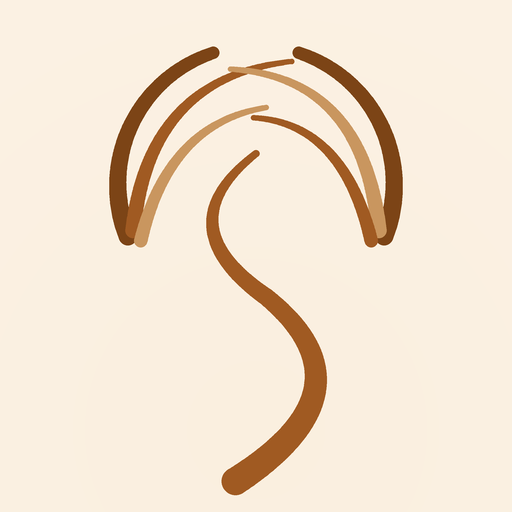
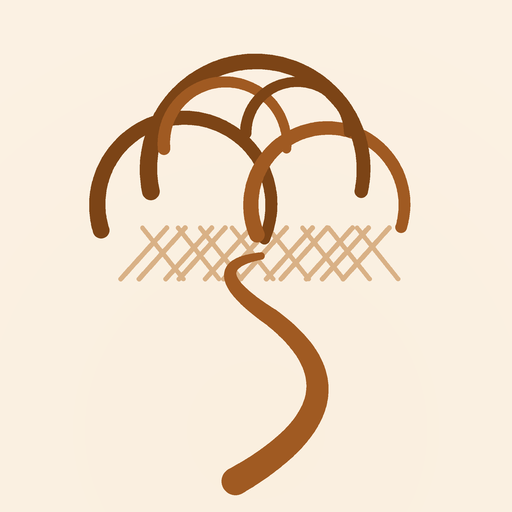
deploy 20260612-0329

diff --git a/index.html b/index.html
@@ -16,8 +16,8 @@
 @font-face{font-family:"Source Serif 4";src:url("./fonts/source-serif-italic-var.woff2") format("woff2");font-style:italic;font-weight:200 900;font-display:swap}
 @font-face{font-family:"Archivo";src:url("./fonts/archivo-var.woff2") format("woff2");font-weight:100 900;font-display:swap}
 </style>
-  <script type="module" crossorigin src="./assets/index-BJf_9Hmf.js"></script>
-  <link rel="stylesheet" crossorigin href="./assets/style-Bjl6vXi2.css">
+  <script type="module" crossorigin src="./assets/index-DHs-lZY4.js"></script>
+  <link rel="stylesheet" crossorigin href="./assets/style-F3nhoCW-.css">
 </head>
 <body>
 <div id="root"></div>

diff --git a/sw.js b/sw.js
@@ -2,8 +2,8 @@
    Hashed assets + fonts: cache-first (immutable). index.html, manifest, trip-data.enc:
    network-first with a short timeout, falling back to cache, so a weak signal never
    blocks boot. Cache name is stamped per deploy; old caches die on activate.
-   20260612031012 is substituted by scripts/deploy.sh. */
-const CACHE = "excurse-20260612031012";
+   20260612032937 is substituted by scripts/deploy.sh. */
+const CACHE = "excurse-20260612032937";
 const NET_TIMEOUT = 3500;
 
 self.addEventListener("install", () => self.skipWaiting());

diff --git a/assets/style-F3nhoCW-.css b/assets/style-F3nhoCW-.css
@@ -1,0 +1,2 @@
+*{-webkit-tap-highlight-color:transparent}:root{--paper:#faf7f2;--paper-deep:#f1ece2;--ink:#1c1915;--ink-soft:#575046;--ink-faint:#8b8276;--line:#dcd5c9;--trip-accent:#2f6b8a;--on-accent:#fff;--call-ahead:#9a6a1b;--breaking:#ae352c;--confirmed:#2f6b4d;--font-ui:"Inter",system-ui,-apple-system,sans-serif;--font-voice:"Source Serif 4",Georgia,serif;--font-display:"Archivo",var(--font-ui);--fs-caption:.75rem;--fs-meta:.8125rem;--fs-body:.9375rem;--fs-emph:1.0625rem;--fs-title:1.25rem;--fs-day:1.5rem;--fs-display:2rem;--fs-clock:2.75rem;--lh-tight:1.2;--lh-body:1.45;--s1:4px;--s2:8px;--s3:12px;--s4:16px;--s5:24px;--s6:40px;--s7:64px;--tap:48px;--r-card:12px;--r-sheet:20px;--r-chip:999px;--shadow-sheet:0 -8px 32px #1c191529;--t-micro:.14s;--t-state:.24s;--t-trans:.42s;--t-set:.7s;--ease-out:cubic-bezier(.2,.8,.2,1);--ease-cam:cubic-bezier(.45,0,.15,1);--z-thread:10;--z-pocket:50;--z-overlay:60;--z-veil:100;--bg:var(--paper);--fg:var(--ink)}[data-mode=dream]{--bg:#161826;--fg:#eceaf2;--ember:#e27840}[data-mode=shape]{--bg:var(--paper);--fg:var(--ink)}[data-mode=field]{--bg:#fff;--fg:#111009}[data-mode=field][data-theme=dark]{--bg:#121110;--fg:#f4f1ea;--call-ahead:#e6a84f}[data-mode=afterglow]{--bg:#f7efe3;--fg:#231a12;--ember:#b5722b}html[data-mode=field]{font-size:112.5%}.num{font-variant-numeric:tabular-nums}.voice{font-family:var(--font-voice);font-style:italic}.display{font-family:var(--font-display);font-weight:600;font-stretch:75%}@media (prefers-reduced-motion:reduce){:root{--t-micro:0s;--t-state:80ms;--t-trans:80ms;--t-set:80ms}}html[data-palette=la-summer]{--bg:#fbf1e3;--fg:#2a2118;--ink-faint:#a08c72;--ink-soft:#6b5b45;--line:#efe3cc;--paper-deep:#f3e6d0;--trip-accent:#a05a22}html[data-palette=la-summer][data-theme=dark]{--bg:#201a12;--fg:#f4ead9;--ink-faint:#a8917a;--ink-soft:#d6c3a8;--line:#3a2f22;--paper-deep:#2a2318;--trip-accent:#c98d52}html[data-palette=pacific]{--bg:#f4f6f2;--fg:#1a211d;--ink-faint:#7e8b82;--ink-soft:#4e5c53;--line:#dde4dc;--paper-deep:#e9efe7;--trip-accent:#3f7464}html[data-palette=pacific][data-theme=dark]{--bg:#161b18;--fg:#e2eae4;--ink-faint:#8a9990;--ink-soft:#b4c4ba;--line:#2c3630;--paper-deep:#1e2520;--trip-accent:#7fa795}html[data-palette=golden-hour]{--bg:#fcead4;--fg:#2b1d0e;--ink-faint:#a98b62;--ink-soft:#7a5c38;--line:#f0d9b7;--paper-deep:#f6e0c2;--trip-accent:#c2571b}html[data-palette=golden-hour][data-theme=dark]{--bg:#221409;--fg:#f4e3cc;--ink-faint:#b08a5f;--ink-soft:#d6b894;--line:#44301c;--paper-deep:#2c1d10;--trip-accent:#e78a45}html[data-palette=marine-layer]{--bg:#eff2f4;--fg:#1c2226;--ink-faint:#8a969e;--ink-soft:#51606b;--line:#dce3e8;--paper-deep:#e4eaee;--trip-accent:#4a7186}html[data-palette=marine-layer][data-theme=dark]{--bg:#14181b;--fg:#e4eaee;--ink-faint:#8fa0ab;--ink-soft:#b9c7d1;--line:#2a3339;--paper-deep:#1c2226;--trip-accent:#7fa4b9}html[data-palette=matcha]{--bg:#f3f4e8;--fg:#20241a;--ink-faint:#939a7e;--ink-soft:#5c6648;--line:#e2e5ce;--paper-deep:#eaedda;--trip-accent:#5f7a3d}html[data-palette=matcha][data-theme=dark]{--bg:#181b12;--fg:#e9eddc;--ink-faint:#99a284;--ink-soft:#c2ccab;--line:#303626;--paper-deep:#21251a;--trip-accent:#97b264}html[data-palette=ktown-neon]{--bg:#fbeff4;--fg:#241318;--ink-faint:#a4798b;--ink-soft:#6e4356;--line:#f2dce6;--paper-deep:#f6e3ec;--trip-accent:#c2347e}html[data-palette=ktown-neon][data-theme=dark]{--bg:#150a10;--fg:#f6e4ee;--ink-faint:#a77e92;--ink-soft:#d3a8bf;--line:#3a2230;--paper-deep:#20121a;--trip-accent:#f056a8}html[data-palette=paper][data-theme=dark]{--bg:#1b1916;--fg:#efeae2;--ink-faint:#9a9184;--ink-soft:#c9c0b2;--line:#332f29;--paper-deep:#242019;--trip-accent:#c9a06a}html[data-typestyle=editorial]{--font-display:Georgia,"Iowan Old Style","Times New Roman",serif}html[data-typestyle=editorial] .display{font-weight:600;font-stretch:100%}html[data-typestyle=soft]{--font-display:var(--font-ui);--r-card:16px}html[data-typestyle=soft] .display{letter-spacing:-.01em;font-weight:700;font-stretch:100%}html[data-ts=large]{font-size:115%}html[data-mode=field][data-ts=large]{font-size:126%}*{box-sizing:border-box;min-width:0}html,body{margin:0}body{background:var(--bg);color:var(--fg);font-family:var(--font-ui);font-size:var(--fs-body);line-height:var(--lh-body);overflow-wrap:break-word}button{font:inherit;color:inherit;cursor:pointer;min-height:var(--tap);background:0 0;border:0;padding:0}a{color:inherit}:focus-visible{outline:2px solid var(--trip-accent);outline-offset:2px;border-radius:4px}.page{max-width:560px;padding:var(--s3) var(--s4) calc(96px + env(safe-area-inset-bottom));margin:0 auto}.pagehead{padding:var(--s4) 0 var(--s2);justify-content:space-between;align-items:baseline;display:flex}.pagehead .display{font-size:var(--fs-display)}.pagehead .sub{color:var(--ink-faint);font-size:var(--fs-meta)}.greet{padding:var(--s4) 0 var(--s2)}.greet h1{font-size:var(--fs-day);font-weight:600;line-height:var(--lh-tight);margin:0}.greet .sub{color:var(--ink-faint);font-size:var(--fs-meta);margin-top:var(--s1)}.tabbar{z-index:var(--z-pocket);background:var(--bg);border-top:1.5px solid var(--line);padding:var(--s2) var(--s2) max(6px, calc(env(safe-area-inset-bottom) - 16px));justify-content:space-around;align-items:stretch;display:flex;position:fixed;bottom:0;left:0;right:0}.tabbar .tab{font-size:var(--fs-caption);color:var(--ink-faint);border-radius:var(--r-card);flex-direction:column;flex:1;align-items:center;gap:2px;display:flex}.tabbar .tab svg{width:22px;height:22px}.tabbar .tab[aria-selected=true]{color:var(--trip-accent);font-weight:600}.tabbar .wallet-btn{background:var(--trip-accent);width:58px;height:58px;color:var(--on-accent);box-shadow:var(--shadow-sheet);border:3px solid var(--bg);border-radius:50%;flex:none;justify-content:center;align-items:center;margin-top:-26px;display:flex}.tabbar .wallet-btn svg{width:26px;height:26px}.hero{border:1.5px solid var(--line);border-radius:var(--r-card);padding:var(--s5);margin-top:var(--s3);background:var(--bg)}.hero .leaveby{font-size:var(--fs-caption);letter-spacing:.1em;color:var(--trip-accent);font-weight:600}.hero .clock{font-size:var(--fs-clock);margin:var(--s1) 0;line-height:1.05}.hero .in{color:var(--ink-faint);font-size:var(--fs-meta)}.hero h2{font-size:var(--fs-title);margin:var(--s3) 0 var(--s1);font-weight:600;line-height:var(--lh-tight)}.hero .fact{color:var(--ink-soft)}.hero .ring-row{align-items:center;gap:var(--s4);justify-content:space-between;display:flex}.meanwhile{margin-top:var(--s4);color:var(--ink-faint);font-size:var(--fs-meta);text-align:left;width:100%;padding:var(--s2) 0}.later{margin-top:var(--s5)}.later .lbl,.seclbl{font-size:var(--fs-caption);letter-spacing:.08em;color:var(--ink-faint);text-transform:uppercase;margin-bottom:var(--s1)}.later .row{gap:var(--s3);padding:var(--s3) 0;border-top:1px solid var(--line);text-align:left;align-items:baseline;width:100%;display:flex}.later .row .t{color:var(--ink-faint);min-width:72px;font-size:var(--fs-meta);flex:none}.daychips{gap:var(--s2);padding:var(--s2) 0 var(--s3);scrollbar-width:none;display:flex;overflow-x:auto}.daychips::-webkit-scrollbar{display:none}.daychips button{border:1.5px solid var(--line);min-width:56px;height:56px;font-weight:600;font-size:var(--fs-emph);border-radius:50%;flex:none;justify-content:center;align-items:center;display:flex}.daychips button[aria-selected=true]{background:var(--trip-accent);color:var(--on-accent);border-color:var(--trip-accent)}.daychips button .d{font-size:var(--fs-caption);font-weight:400;display:block}.dayhead{padding:var(--s2) 0}.dayhead .display{font-size:var(--fs-day)}.brief{color:var(--ink-faint);font-size:var(--fs-meta);margin-top:var(--s1)}.card{border:1.5px solid var(--line);border-radius:var(--r-card);margin:var(--s3) 0;background:var(--bg)}.card.single{border-style:dashed}.card.backupghost{opacity:.8;border-style:dashed;width:94%;margin-left:auto}.card.freeform{background:var(--paper-deep);border-style:none}.card.past{opacity:.55}.card>summary{padding:var(--s4);cursor:pointer;min-height:var(--tap);list-style:none;position:relative}.card>summary::-webkit-details-marker{display:none}.card>summary:after{content:"";right:var(--s4);border-right:1.5px solid var(--ink-faint);border-bottom:1.5px solid var(--ink-faint);width:8px;height:8px;transition:transform var(--t-micro);position:absolute;top:calc(50% - 4px);transform:rotate(45deg)}.card[open]>summary:after{transform:rotate(225deg)}.meta-row{gap:var(--s2);font-size:var(--fs-meta);color:var(--ink-faint);padding-right:var(--s5);flex-wrap:wrap;align-items:baseline;display:flex}.card h3{margin:var(--s1) 0 0;font-size:var(--fs-emph);font-weight:600;line-height:var(--lh-tight);padding-right:var(--s5)}.card.struck h3{color:var(--ink-faint);text-decoration:line-through}.card .fact{color:var(--ink-soft);font-size:var(--fs-meta);margin-top:var(--s1)}.card .body{padding:0 var(--s4) var(--s4)}.voiceline{text-align:left;width:100%;color:var(--ink-soft);font-size:var(--fs-emph);padding:var(--s2) 0;line-height:var(--lh-body);display:block}.voiceline.clamped{-webkit-line-clamp:2;-webkit-box-orient:vertical;display:-webkit-box;overflow:hidden}.lrow{gap:var(--s2);margin:var(--s2) 0;font-size:var(--fs-meta);color:var(--ink-soft);display:flex}.lrow .k{color:var(--ink-faint);flex:none;min-width:72px}.headsup{margin:var(--s2) 0;font-size:var(--fs-meta);color:var(--ink-soft)}.actchips{gap:var(--s2);margin-top:var(--s3);flex-wrap:wrap;display:flex}.chip{border:1.5px solid var(--line);border-radius:var(--r-chip);padding:var(--s2) var(--s4);font-size:var(--fs-meta);min-height:var(--tap);background:var(--bg);align-items:center;text-decoration:none;display:inline-flex}.chip.primary{background:var(--trip-accent);color:var(--on-accent);border-color:var(--trip-accent)}.chip.callahead{border-color:var(--call-ahead);color:var(--call-ahead)}.receipts{margin-top:var(--s3);font-size:var(--fs-caption);color:var(--ink-faint)}.fork-tag{font-size:var(--fs-caption);letter-spacing:.06em;color:var(--trip-accent)}.pocket-tag{font-size:var(--fs-caption);letter-spacing:.06em;color:var(--ink-faint)}.option{border:1px solid var(--line);border-radius:var(--r-card);padding:var(--s3);margin:var(--s2) 0}.option .read{font-size:var(--fs-meta);color:var(--ink-soft);font-family:var(--font-voice);font-style:italic}.option .tr{font-size:var(--fs-caption);color:var(--ink-faint);margin-top:var(--s1)}.flap{border:1px dashed var(--line);border-left:3px solid var(--line);border-radius:0 var(--r-card) var(--r-card) 0;margin:0 0 var(--s3) var(--s4);background:var(--paper-deep)}.flap>summary{padding:var(--s3) var(--s4);font-size:var(--fs-meta);color:var(--ink-faint);cursor:pointer;min-height:var(--tap);align-items:center;list-style:none;display:flex}.flap>summary::-webkit-details-marker{display:none}.flap .g-ent{padding:var(--s3) var(--s4);border-top:1px solid var(--line)}.flap .g-ent .nm{font-weight:600;font-size:var(--fs-meta)}.flap .g-ent .hrs{color:var(--trip-accent);font-size:var(--fs-caption);margin-left:var(--s2)}.flap .g-ent .why{font-size:var(--fs-meta);color:var(--ink-soft)}.dayrail{padding-left:var(--s5);position:relative}.dayrail:before{content:"";background:var(--line);width:1.5px;position:absolute;top:0;bottom:0;left:9px}.railnode{background:var(--bg);border:1.5px solid var(--ink-faint);border-radius:50%;width:13px;height:13px;margin-top:26px;position:absolute;left:3px}.railnode.decision{border-color:var(--trip-accent);border-radius:2px;transform:rotate(45deg)}.railnode.backupn{border-style:dotted}.wsheet-scrim{z-index:var(--z-overlay);opacity:0;pointer-events:none;transition:opacity var(--t-state);background:#[phone redacted];position:fixed;top:0;bottom:0;left:0;right:0}.wsheet-scrim.open{opacity:1;pointer-events:auto}.wsheet{z-index:var(--z-overlay);background:var(--paper-deep);border-radius:var(--r-sheet) var(--r-sheet) 0 0;box-shadow:var(--shadow-sheet);transition:transform var(--t-trans) var(--ease-out);flex-direction:column;max-height:90dvh;display:flex;position:fixed;bottom:0;left:0;right:0;transform:translateY(102%)}.wsheet.open{transform:none}.wsheet .whead{padding:var(--s4) var(--s5) var(--s2);justify-content:space-between;align-items:center;display:flex}.wsheet .whead .display{font-size:var(--fs-title)}.wsheet .whead button{color:var(--ink-faint);font-size:var(--fs-meta);padding:0 var(--s2)}.wstack{padding:var(--s3) var(--s4) calc(var(--s6) + env(safe-area-inset-bottom));overflow:auto}.wcard{border-radius:var(--r-card);background:var(--bg);border:1.5px solid var(--line);margin-top:calc(-1 * var(--s7));text-align:left;width:100%;transition:margin var(--t-state) var(--ease-out);padding:0;display:block;overflow:hidden;box-shadow:0 -4px 16px #1c19151a}.wcard .band{background:var(--trip-accent);height:6px}.wcard.k-stay .band{background:var(--confirmed)}.wcard.k-car .band{background:var(--call-ahead)}.wcard.k-policy .band{background:var(--ink-faint)}.wcard.k-other .band{background:var(--ink-soft)}.wcard .wface{padding:var(--s4) var(--s5) var(--s5)}.wcard .kind{font-size:var(--fs-caption);color:var(--ink-faint);letter-spacing:.08em;text-transform:uppercase}.wcard .nm{font-weight:600;font-size:var(--fs-emph);line-height:var(--lh-tight);margin-top:2px}.wcard .peek{color:var(--ink-faint);font-size:var(--fs-meta);white-space:nowrap;text-overflow:ellipsis;margin-top:2px;overflow:hidden}.wcard.active,.wcard.active~.wcard{margin-top:var(--s3)}.wbody{padding:0 var(--s5) var(--s5)}.wbody .bigcode{font-size:var(--fs-display);font-family:var(--font-display);letter-spacing:.04em;padding:var(--s2) 0 var(--s3);text-align:left;word-break:break-all;width:100%;font-weight:600;font-stretch:75%}.wbody .bigcode.copied{color:var(--confirmed)}.wbody .note{font-size:var(--fs-body);color:var(--ink-soft);padding:var(--s2) 0}.wbody .row{gap:var(--s3);padding:var(--s2) 0;border-top:1px solid var(--line);font-size:var(--fs-meta);display:flex}.wbody .row .k{color:var(--ink-faint);flex:none;width:108px}.wbody .row .v{flex:1}.seg{gap:var(--s1);background:var(--paper-deep);border-radius:var(--r-chip);margin:var(--s2) 0 var(--s4);scrollbar-width:none;padding:4px;display:flex;overflow-x:auto}.seg::-webkit-scrollbar{display:none}.seg button{white-space:nowrap;border-radius:var(--r-chip);padding:var(--s2) var(--s4);font-size:var(--fs-meta);flex:1;min-height:40px}.seg button[aria-selected=true]{background:var(--bg);font-weight:600;box-shadow:0 1px 4px #1c19151f}.seg .badge{font-size:var(--fs-caption);color:var(--ink-faint);margin-left:6px}.demand{border:1.5px solid var(--line);border-radius:var(--r-card);padding:var(--s4);margin:var(--s3) 0}.demand .nm{font-weight:600;font-size:var(--fs-emph)}.demand .why{color:var(--ink-soft);font-size:var(--fs-meta);margin:var(--s1) 0 var(--s3)}.slotrow{align-items:center;gap:var(--s3);margin:var(--s2) 0;display:flex}.slotrow .k{font-size:var(--fs-caption);letter-spacing:.06em;text-transform:uppercase;color:var(--trip-accent);flex:none;width:88px}.slotrow input{border:0;border-bottom:1.5px solid var(--line);color:var(--fg);font:inherit;font-size:var(--fs-meta);padding:var(--s2) 2px;min-height:var(--tap);background:0 0;border-radius:0;flex:1}.slotrow input:focus{border-bottom-color:var(--trip-accent);outline:none}.slotrow input::placeholder{color:var(--ink-faint);font-style:italic}.pcat{margin:var(--s4) 0}.pcat .ph{justify-content:space-between;align-items:baseline;display:flex}.pcat .ph .nm{font-weight:600}.pcat .prog{font-size:var(--fs-caption);color:var(--ink-faint);border:1px solid var(--line);border-radius:var(--r-chip);padding:2px 10px}.pcat .prog.done{color:var(--confirmed);border-color:var(--confirmed)}.checkrow{gap:var(--s3);padding:var(--s3) 0;border-top:1px solid var(--line);align-items:flex-start;display:flex}.checkrow input{width:22px;height:22px;accent-color:var(--trip-accent);flex:none;margin-top:2px}.checkrow label,.checkrow .le-textwrap{flex:1}.checkrow .why{color:var(--ink-faint);font-size:var(--fs-caption);display:block}.checkrow.done label{color:var(--ink-faint)}.checkrow.done .main{text-decoration:line-through}.le-text{-webkit-line-clamp:2;-webkit-box-orient:vertical;display:-webkit-box;overflow:hidden}.le-text.full{display:block}.le-more{color:var(--trip-accent);font-size:var(--fs-caption);padding:var(--s1) 0;min-height:0}.le-due{color:var(--call-ahead);font-size:var(--fs-caption)}.donewrap{margin-top:var(--s5)}.donewrap>summary{cursor:pointer;color:var(--ink-faint);font-size:var(--fs-meta);padding:var(--s3) 0;min-height:var(--tap);align-items:center;gap:var(--s2);list-style:none;display:flex}.donewrap>summary::-webkit-details-marker{display:none}.emptystate{border:1.5px dashed var(--line);border-radius:var(--r-card);padding:var(--s5);color:var(--ink-faint);text-align:center;margin:var(--s4) 0}.pastefield{border:1.5px solid var(--line);border-radius:var(--r-card);background:var(--bg);width:100%;color:var(--fg);font:inherit;font-size:var(--fs-meta);padding:var(--s4);min-height:88px}.set-group{margin:var(--s5) 0}.set-group .lbl{font-size:var(--fs-caption);letter-spacing:.08em;text-transform:uppercase;color:var(--ink-faint);margin-bottom:var(--s2)}.set-row{gap:var(--s2);flex-wrap:wrap;display:flex}.set-row button,.set-row a{border:1.5px solid var(--line);border-radius:var(--r-chip);padding:var(--s2) var(--s4);font-size:var(--fs-meta);align-items:center;gap:var(--s2);min-height:var(--tap);background:var(--bg);text-decoration:none;display:inline-flex}.set-row [aria-pressed=true]{border-color:var(--trip-accent);color:var(--trip-accent);font-weight:600}.swatch{border:1px solid var(--line);border-radius:50%;flex:none;width:16px;height:16px}.veil{z-index:var(--z-veil);background:var(--bg);padding:var(--s5);text-align:center;justify-content:center;align-items:center;display:flex;position:fixed;top:0;bottom:0;left:0;right:0;overflow:hidden}.veil .box{z-index:2;width:min(360px,92vw);position:relative}.veil .box:before{content:"";z-index:-1;background:radial-gradient(closest-side,var(--bg) 55%,transparent);position:absolute;top:-12%;bottom:-12%;left:-12%;right:-12%}.veil h1{font-size:var(--fs-display);margin:0 0 var(--s2)}.veil p{color:var(--ink-faint);font-size:var(--fs-meta)}.veil input{border:1.5px solid var(--line);border-radius:var(--r-card);width:100%;padding:var(--s4);font-size:var(--fs-emph);background:var(--bg);color:var(--fg);text-align:center;margin:var(--s4) 0}.veil .go{background:var(--trip-accent);width:100%;color:var(--on-accent);border-radius:var(--r-card);padding:var(--s4);font-weight:600}.veil.err .box{animation:shake var(--t-micro) 1}@keyframes shake{25%{transform:translate(-6px)}75%{transform:translate(6px)}}.lens-grid{gap:var(--s3);margin-top:var(--s4);flex-wrap:wrap;justify-content:center;display:flex}.lens-grid button{border:1.5px solid var(--line);border-radius:var(--r-chip);padding:var(--s3) var(--s5);font-size:var(--fs-emph)}.sect{margin:var(--s3) 0}.sect h4{font-size:var(--fs-caption);letter-spacing:.1em;text-transform:uppercase;color:var(--trip-accent);margin:0 0 var(--s1);border-bottom:1.5px solid var(--line);padding-bottom:3px;font-weight:600;display:inline-block}.sect p{margin:var(--s1) 0;color:var(--ink-soft);font-size:var(--fs-meta);line-height:var(--lh-body)}.card h3,.demand .nm,.pcat .ph .nm,.wcard .nm,.hero h2,.greet h1{font-family:var(--font-display);font-stretch:75%}html[data-typestyle=editorial] .card h3,html[data-typestyle=editorial] .demand .nm,html[data-typestyle=editorial] .pcat .ph .nm,html[data-typestyle=editorial] .wcard .nm,html[data-typestyle=editorial] .hero h2,html[data-typestyle=editorial] .greet h1{font-stretch:100%}html[data-typestyle=soft] .card h3,html[data-typestyle=soft] .demand .nm,html[data-typestyle=soft] .pcat .ph .nm,html[data-typestyle=soft] .wcard .nm,html[data-typestyle=soft] .hero h2,html[data-typestyle=soft] .greet h1{letter-spacing:-.01em;font-stretch:100%}.wcard{margin-top:-10px}.wstack .wcard:first-child{margin-top:0}.wcard .wface{justify-content:space-between;align-items:center;gap:var(--s3);text-align:left;width:100%;padding:var(--s4) var(--s5);min-height:var(--tap);display:flex}.wcard .wface .nm{font-size:var(--fs-emph);white-space:nowrap;text-overflow:ellipsis;margin:0;overflow:hidden}.wcard .wface .kind{flex:none}.wcard.active{margin:var(--s3) 0}.wcard.active+.wcard{margin-top:var(--s3)}.wsect{font-size:var(--fs-caption);letter-spacing:.1em;text-transform:uppercase;color:var(--trip-accent);margin:var(--s4) 0 var(--s1);border-bottom:1.5px solid var(--line);padding-bottom:3px;font-weight:600;display:inline-block}.seg button{justify-content:center;align-items:center;gap:6px;display:inline-flex}.segbadge{background:var(--line);color:var(--ink-soft);border-radius:var(--r-chip);font-size:var(--fs-caption);padding:4px 8px;line-height:1}.seg button[aria-selected=true] .segbadge{background:var(--trip-accent);color:var(--on-accent)}.le-body{flex:1;min-width:0}.le-foot{margin-top:var(--s1);justify-content:space-between;align-items:center;display:flex}.le-chev{width:40px;min-height:32px;color:var(--ink-faint);justify-content:flex-start;align-items:center;display:flex}.le-chev svg{transition:transform var(--t-micro)}.le-chev.open svg{transform:rotate(180deg)}.le-due{color:var(--call-ahead);font-size:var(--fs-caption);margin-left:auto}.hint{color:var(--ink-faint);font-size:var(--fs-meta);margin:var(--s1) 0 var(--s3)}.slotrow{align-items:flex-start}.slotrow .k .rec{color:var(--ink-faint);text-transform:none;letter-spacing:0}.chipfield{align-items:center;gap:var(--s1);min-height:var(--tap);border-bottom:1.5px solid var(--line);padding-bottom:var(--s2);flex-wrap:wrap;flex:1;display:flex}.fitchip{border:1px solid var(--line);background:var(--paper-deep);border-radius:8px;align-items:center;max-width:100%;display:inline-flex}.fitchip-main{font-size:var(--fs-meta);text-align:left;min-height:32px;padding:6px 10px}.fitchip.open{border-color:var(--breaking)}.fitchip-x{min-height:32px;color:var(--breaking);font-size:var(--fs-emph);padding:0 10px}.fitplus{color:var(--trip-accent);font-size:var(--fs-meta);min-height:32px;padding:4px 8px}.fitadd{border:0;border-bottom:1.5px solid var(--trip-accent);color:var(--fg);font:inherit;font-size:var(--fs-meta);background:0 0;border-radius:0;min-width:130px;padding:4px 2px}.fitadd:focus{outline:none}.wip{border:1px dashed var(--call-ahead);color:var(--call-ahead);border-radius:var(--r-chip);margin-left:var(--s2);letter-spacing:.04em;text-transform:none;padding:2px 8px;font-size:10px;font-weight:400}.wpeek{align-items:center;gap:var(--s3);text-align:left;border:1.5px solid var(--line);border-radius:var(--r-card);width:100%;padding:var(--s4);background:var(--bg);display:flex}.wpeek .kind{font-size:var(--fs-caption);color:var(--trip-accent);letter-spacing:.08em;text-transform:uppercase;flex:none}.wpeek .nm{white-space:nowrap;text-overflow:ellipsis;flex:1;min-width:0;font-weight:600;overflow:hidden}.wpeek .code{color:var(--ink-faint);font-size:var(--fs-meta);flex:none}.progressbar{background:var(--paper-deep);border:1px solid var(--line);border-radius:3px;height:6px;display:block;overflow:hidden}.progressbar i{background:var(--trip-accent);height:100%;display:block}.le-note{color:var(--ink-faint);font-size:var(--fs-meta);margin-top:var(--s2);line-height:var(--lh-body);display:block}.veil,.splash{padding-top:calc(var(--s5) + env(safe-area-inset-top))}.splash{z-index:var(--z-veil);background:var(--bg);text-align:center;justify-content:center;align-items:center;display:flex;position:fixed;top:0;bottom:0;left:0;right:0;overflow:hidden}.splash-box{z-index:2;padding:var(--s6) var(--s5);animation:rise var(--t-set) var(--ease-out) both;position:relative}.splash-box:before{content:"";z-index:-1;background:radial-gradient(closest-side,var(--bg) 52%,transparent);position:absolute;top:-14%;bottom:-14%;left:-14%;right:-14%}.splash-mark{font-family:var(--font-voice);color:var(--trip-accent);font-style:italic;font-size:var(--fs-title);letter-spacing:.05em;margin-bottom:var(--s4)}.splash-box h1{font-family:var(--font-voice);letter-spacing:-.01em;margin:0;font-size:max(2.4rem,min(9vw,3.2rem));font-style:italic;font-weight:620;line-height:1.08}.splash-dates{color:var(--ink-soft);margin-top:var(--s3);font-size:var(--fs-meta);letter-spacing:.16em;text-transform:uppercase}.splash-welcome{color:var(--trip-accent);font-size:var(--fs-title);margin-top:var(--s4)}@keyframes rise{0%{opacity:0;transform:translateY(14px)}to{opacity:1;transform:none}}.veil h1{font-family:var(--font-voice);letter-spacing:-.01em;font-size:2.2rem;font-style:italic;font-weight:620;font-stretch:100%}.frond{--base:0deg;--fsz:min(120vw,600px);width:var(--fsz);z-index:1;fill:none;height:auto;stroke:var(--trip-accent);opacity:.5;left:calc(var(--fsz) * -.05 - 10px);bottom:calc(var(--fsz) * -.05 - 10px);transform:rotate(var(--base));transform-origin:5% 95%;animation:frondenter 1.2s var(--ease-out) both,frondsway 6s ease-in-out 2.2s infinite alternate;position:absolute}.frond.flip{--base:180deg;bottom:auto;left:auto;right:calc(var(--fsz) * -.05 - 10px);top:calc(var(--fsz) * -.05 - 10px);transform-origin:50%}.frond .leaf{stroke-linecap:round;opacity:0;animation:leafin .42s var(--ease-out) both;animation-delay:var(--d)}.frond .leafw{transform-box:view-box;transform-origin:8px 152px;transform:rotate(var(--rot)) scale(var(--ls,1))}.frond .leafw.back .leaf{opacity:0;stroke:color-mix(in srgb,var(--trip-accent) 55%,var(--bg) 45%);animation:leafin-back .42s var(--ease-out) both;animation-delay:var(--d)}@keyframes leafin-back{to{opacity:.75}}.frond .leafw.fore .leaf{stroke-width:3px;opacity:0;stroke:color-mix(in srgb,var(--trip-accent) 62%,var(--fg) 38%);animation:leafin .42s var(--ease-out) both;animation-delay:var(--d)}@keyframes leafin{to{opacity:1}}@keyframes frondenter{0%{transform:rotate(calc(var(--base) - 8deg)) scale(.55);opacity:0}}@keyframes frondsway{0%{transform:rotate(var(--base))}to{transform:rotate(calc(var(--base) + 1.6deg))}}@media (prefers-reduced-motion:reduce){.frond{opacity:.5;animation:none}.frond .leafw,.frond .leaf{opacity:1;animation:none}.splash-box{animation:none}}.timeshift{justify-content:center;align-items:center;gap:var(--s4);margin-top:var(--s2);color:var(--ink-faint);display:flex}.timeshift button{min-width:44px;min-height:36px;font-size:var(--fs-emph);color:var(--ink-faint)}.timeshift button:disabled{opacity:.25}.timeshift .backnow{font-size:var(--fs-caption);color:var(--trip-accent);min-width:auto}.daytheme{font-size:var(--fs-emph);color:var(--ink-soft);margin-top:var(--s2)}.daymeta{gap:var(--s4);margin-top:var(--s2);font-size:var(--fs-caption);letter-spacing:.06em;text-transform:uppercase;color:var(--ink-faint);flex-wrap:wrap;display:flex}.seg button{padding:var(--s2) var(--s4);flex:none}.slotrow .k{flex-direction:column;gap:2px;width:88px;display:flex}.slotrow .k .rec{font-size:var(--fs-caption);color:var(--ink-faint);letter-spacing:0;text-transform:none}.demand>summary,.pcat>summary{cursor:pointer;justify-content:space-between;align-items:center;gap:var(--s3);min-height:var(--tap);list-style:none;display:flex}.demand>summary::-webkit-details-marker{display:none}.pcat>summary::-webkit-details-marker{display:none}.demand .dprog{font-size:var(--fs-caption);color:var(--ink-faint);border:1px solid var(--line);border-radius:var(--r-chip);flex:none;padding:3px 10px}.demand .dbody{padding-top:var(--s2)}.pcat>summary{padding:var(--s2) 0}html[data-typestyle=editorial]{--font-ui:Georgia,"Iowan Old Style",serif}html[data-typestyle=editorial] .num,.tabbar{font-family:Inter,system-ui,-apple-system,BlinkMacSystemFont,Segoe UI,Roboto,Noto Sans,Ubuntu,Cantarell,Helvetica Neue,sans-serif}html[data-typestyle=soft]{--font-ui:ui-rounded,"SF Pro Rounded","Inter",system-ui,sans-serif;--font-display:ui-rounded,"SF Pro Rounded","Inter",system-ui,sans-serif;--r-card:18px;--r-sheet:26px}html{background:var(--bg)}html,body{height:var(--vvh,100dvh);overflow:hidden}.appwrap{view-transition-name:page;transition:opacity .28s var(--ease-out);background:var(--bg);height:var(--vvh,100dvh);padding-top:env(safe-area-inset-top);overscroll-behavior:contain;overflow-x:hidden;overflow-y:auto}.veil,.splash{height:var(--vvh,100dvh)}.appwrap.dim{opacity:.6}body:before{content:"";height:env(safe-area-inset-top);z-index:90;pointer-events:none;background:var(--bg);background:color-mix(in srgb,var(--bg) 82%,transparent);-webkit-backdrop-filter:blur(12px);backdrop-filter:blur(12px);position:fixed;top:0;left:0;right:0}.tabbar{view-transition-name:tabbar}::view-transition-old(root){animation:none}::view-transition-new(root){animation:none}::view-transition-old(tabbar){animation:none}::view-transition-new(tabbar){animation:none}.brand{max-width:560px;padding:calc(var(--s3) + 2px) var(--s4) 2px;color:var(--trip-accent);font-family:var(--font-voice);font-style:italic;font-size:var(--fs-emph);letter-spacing:.04em;view-transition-name:brand;justify-content:flex-end;align-items:center;gap:8px;margin:0 auto;display:flex}.brand svg{opacity:.9;flex:none}::view-transition-old(brand){animation:none}::view-transition-new(brand){animation:none}.brand-word{display:inline-block;position:relative}.byco{font-family:var(--font-ui);letter-spacing:.14em;color:var(--ink-faint);white-space:nowrap;font-size:.5em;font-style:normal;position:absolute;bottom:-.74em;right:0}.veil .byco{font-size:.34em;right:-1.1em}.splash .byco{right:-1.4em}html[data-navdir=forward]::view-transition-new(page){z-index:2;animation:.46s cubic-bezier(.32,.72,0,1) both vt-push-in}html[data-navdir=forward]::view-transition-old(page){animation:.46s cubic-bezier(.32,.72,0,1) both vt-push-under}html[data-navdir=backward]::view-transition-old(page){z-index:2;animation:.46s cubic-bezier(.32,.72,0,1) both vt-pop-out}html[data-navdir=backward]::view-transition-new(page){animation:.46s cubic-bezier(.32,.72,0,1) both vt-pop-reveal}@keyframes vt-push-in{0%{transform:translate(100%)}}@keyframes vt-push-under{to{transform:translate(-30%)}}@keyframes vt-pop-out{to{transform:translate(100%)}}@keyframes vt-pop-reveal{0%{transform:translate(-30%)}}html[data-navdir] .heroin,html[data-morph] .heroin,html[data-navdir] .segin,html[data-morph] .segin,html[data-navdir] .fitchip,html[data-morph] .fitchip{animation:none}html[data-navdir] details::details-content{transition:none}html[data-morph] details::details-content{transition:none}html[data-morph]::view-transition-old(page){animation:.26s cubic-bezier(.4,0,.2,1) both vt-vacate}html[data-morph]::view-transition-new(page){animation:.32s cubic-bezier(.4,0,.2,1) .2s both vt-arrive}@keyframes vt-vacate{to{opacity:0}}@keyframes vt-arrive{0%{opacity:0}}::view-transition-group(morph){z-index:40;animation-duration:.62s;animation-timing-function:cubic-bezier(.45,0,.15,1)}::view-transition-image-pair(morph){animation-duration:.62s}::view-transition-group(morphday){z-index:40;animation-duration:.95s;animation-timing-function:cubic-bezier(.3,0,.08,1)}::view-transition-image-pair(morphday){animation-duration:.95s}::view-transition-old(morphday){width:auto;height:100%;animation:.26s cubic-bezier(.4,0,.2,1) both vt-vacate}::view-transition-new(morphday){width:100%;height:auto;animation:.38s cubic-bezier(.4,0,.2,1) .16s both vt-arrive}::view-transition-old(morph){width:100%;height:auto;animation:.24s cubic-bezier(.4,0,.2,1) both vt-vacate}::view-transition-new(morph){width:100%;height:auto;animation:.34s cubic-bezier(.4,0,.2,1) .14s both vt-arrive}details::details-content{opacity:0;transition:opacity .26s var(--ease-out)}details[open]::details-content{opacity:1}@supports (animation-timing-function:linear(0,1)){.wsheet{transition:transform .9s linear(0,.0238 3.2%,.0858 6.5%,.1733 9.7%,.[phone redacted]%,.[phone redacted]%,.[phone redacted]%,.[phone redacted]%,.[phone redacted]%,.7767 29%,.[phone redacted]%,.[phone redacted]%,.[phone redacted]%,.[phone redacted]%,[phone redacted]%,[phone redacted]%,[phone redacted]%,[phone redacted]%,[phone redacted]%,[phone redacted]%,[phone redacted]%,[phone redacted]%,[phone redacted]%,[phone redacted]%,[phone redacted]%,[phone redacted]%,[phone redacted]%,[phone redacted]%,[phone redacted]%,[phone redacted]%,[phone redacted]%,1)}}.wsheet{will-change:transform}.wsheet.open .wcard{animation:cardfan .26s var(--ease-out) both;animation-delay:calc(var(--i,0)*40ms)}@keyframes cardfan{0%{opacity:0;transform:translateY(16px)}}.wcard .wgrow{visibility:hidden;transition:grid-template-rows .38s var(--ease-out),visibility 0s .38s;grid-template-rows:0fr;display:grid}.wcard .wgrow.open{visibility:visible;transition:grid-template-rows .38s var(--ease-out),visibility 0s;grid-template-rows:1fr}.wcard .wgrow-in{min-height:0;overflow:hidden}.le-notewrap{transition:grid-template-rows .3s var(--ease-out);grid-template-rows:0fr;display:grid}.le-notewrap.open{grid-template-rows:1fr}.le-notewrap>.le-note{min-height:0;overflow:hidden}.segin{animation:segin .24s var(--ease-out) both}@keyframes segin{0%{opacity:0;transform:translateY(8px)}}.dayroll .dayhead .brief{animation:rollfade .38s var(--ease-out) .75s backwards}.dayroll .dayhead .daytheme{animation:rollfade .42s var(--ease-out) .86s backwards}.dayroll .dayhead .daymeta{animation:rollfade .42s var(--ease-out) .97s backwards}.dayroll .dayrail>div{animation:rollin .44s var(--ease-cam) backwards;animation-delay:calc(1.06s + min(var(--ri,0), 7) * 65ms)}@keyframes rollin{0%{opacity:0;transform:translateY(-16px)}}@keyframes rollfade{0%{opacity:0;transform:translateY(6px)}}.dayhead .display{width:-webkit-fit-content;width:-moz-fit-content;width:fit-content;font-size:2.1rem}.heroin{animation:heroin .24s var(--ease-out) both}@keyframes heroin{0%{opacity:0;transform:translateY(10px)}}.chip,.daychips button,.seg button,.set-row button,.tabbar .tab,.fitchip-main,.fitplus,.wallet-btn{transition:transform .14s var(--ease-out),background-color .14s var(--ease-out), border-color .14s var(--ease-out),color .14s var(--ease-out)}.chip:active,.daychips button:active,.seg button:active,.set-row button:active,.fitchip-main:active{transform:scale(.94)}.wallet-btn:active{transform:scale(.9)}.checkrow input{transition:transform .14s var(--ease-out)}.checkrow input:active{transform:scale(.85)}.checkrow label .main,.checkrow .le-textwrap .main{transition:color .14s var(--ease-out)}.fitchip{animation:chipin .14s var(--ease-out) both}@keyframes chipin{0%{opacity:0;transform:scale(.8)}}.progressbar i{transition:width .42s var(--ease-out)}.hero svg circle{transition:stroke-dashoffset 1s linear}.splash{transition:opacity .42s var(--ease-out)}.splash.leaving{opacity:0;pointer-events:none}.splash.leaving .splash-box{transition:transform .42s var(--ease-out);transform:translateY(-10px)}.pkoverall{border:1px solid var(--line);border-radius:var(--r-card);background:var(--bg);padding:var(--s3) var(--s4);margin-bottom:var(--s5)}.pkoverall .row{justify-content:space-between;margin-bottom:6px;display:flex}.spark{color:var(--trip-accent);vertical-align:-1px;flex:none;margin-right:6px}.checkrow .rowdel{min-width:36px;min-height:32px;color:var(--ink-faint);font-size:var(--fs-emph)}@media (prefers-reduced-motion:reduce){::view-transition-old(*){animation:none!important}::view-transition-new(*){animation:none!important}details::details-content{transition:none}.wsheet{transition:none}.wsheet.open .wcard,.heroin,.fitchip{animation:none}.appwrap,.progressbar i,.hero svg circle{transition:none}}
+/*$vite$:1*/